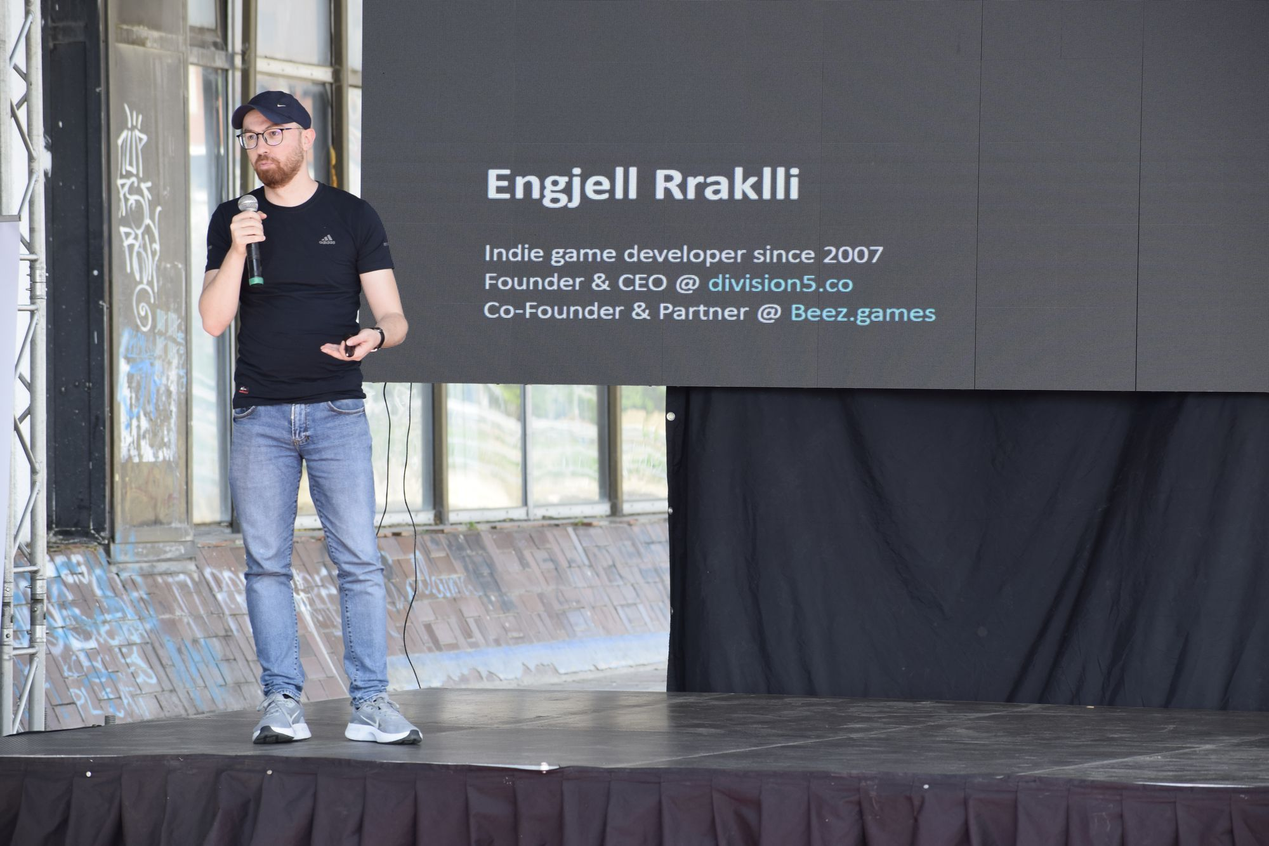
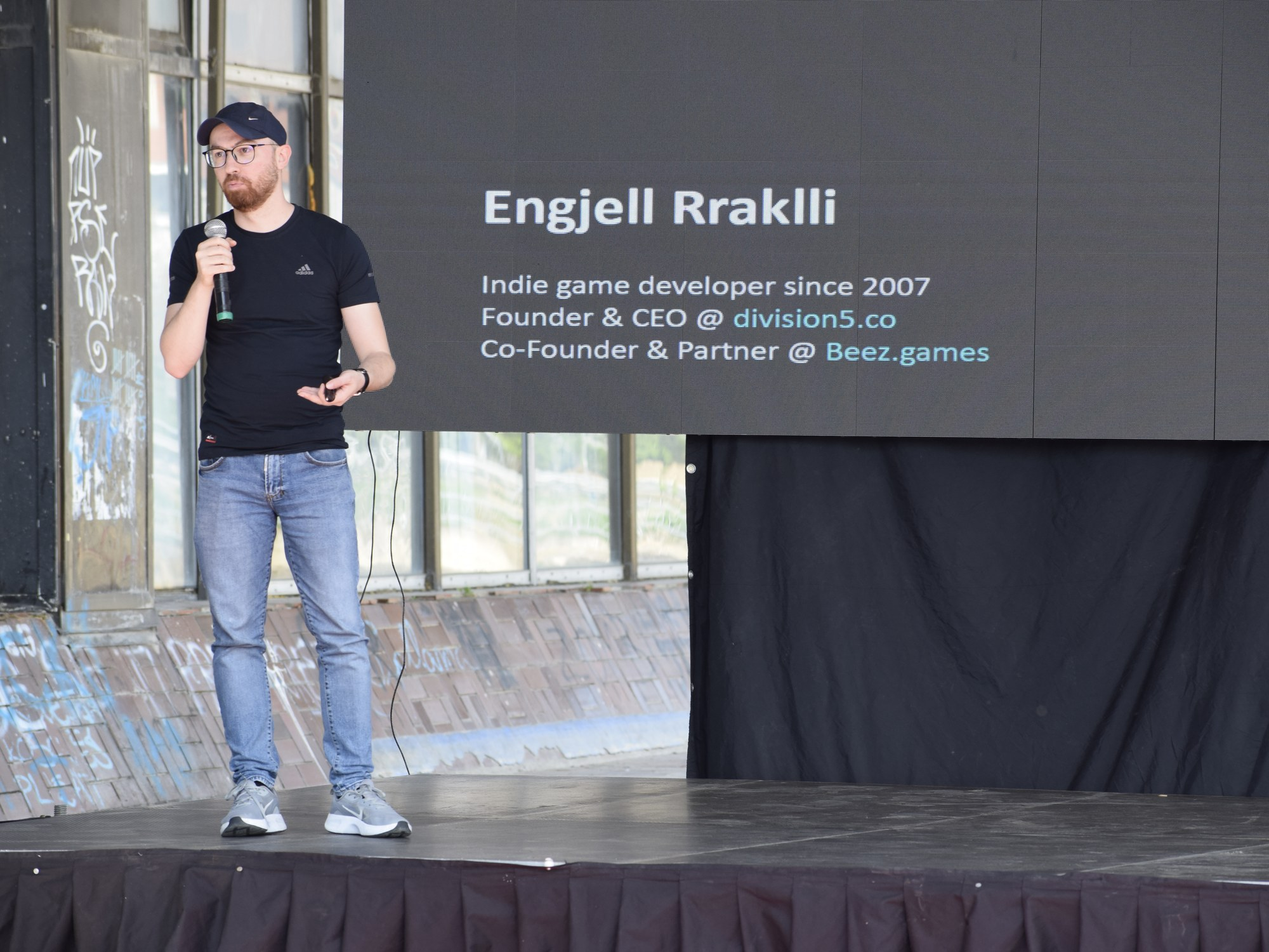
fix(redesign): sharp photos and article images that actually arrive
Photos looked soft for three reasons. Next served AVIF at quality 75,
about 26 KB for a 1080px photo. The landscape photos sat in 4:5 and 4:3
frames, so object-cover enlarged them past the width `sizes` promised
and the browser fetched half the pixels it needed. And the Albanian
Skills Expo set was shot on a phone. Now: WebP at quality 85, every
photo pre-cut to its frame from the camera originals, and the phone
and reduced awards photos retired.

Article body images were full-size uploads of 8 to 10 MB each. They now
go through the image optimizer at the column width, about 135 KB.

/invest and /sprint get a photo each, so neither is text all the way down.

diff --git a/app/journal/[slug]/page.tsx b/app/journal/[slug]/page.tsx
@@ -131,7 +131,7 @@ export default async function BlogPost({ params }: { params: Promise<{ slug: str
             <div className="mt-8 flex flex-wrap items-center justify-between gap-x-6 gap-y-4 border-t border-[var(--line)] pt-6">
               <div className="flex items-center gap-3.5">
                 <span className="relative block h-12 w-12 shrink-0 overflow-hidden rounded-full bg-[var(--deep)]">
-                  <Image src="/IMG_0466.JPG" alt="" fill sizes="48px" className="origin-[50%_33%] scale-[2.4] object-cover" style={{ objectPosition: "50% 24%" }} />
+                  <Image src="/IMG_0466.JPG" alt="" fill quality={85} sizes="48px" className="origin-[50%_33%] scale-[2.4] object-cover" style={{ objectPosition: "50% 24%" }} />
                 </span>
                 <div>
                   <p className="text-[15px] font-semibold text-[var(--ink)]">Engjell Rraklli</p>
@@ -159,6 +159,7 @@ export default async function BlogPost({ params }: { params: Promise<{ slug: str
                 src={blog.imageUrl}
                 alt={`${blog.title}, featured image`}
                 fill
+                quality={85}
                 priority
                 sizes="(min-width: 1024px) 64rem, 100vw"
                 className="object-cover"
@@ -213,6 +214,7 @@ export default async function BlogPost({ params }: { params: Promise<{ slug: str
                         src={relatedBlog.imageUrl}
                         alt=""
                         fill
+                        quality={85}
                         sizes="(min-width: 768px) 50vw, 100vw"
                         className="object-cover transition-transform duration-500 group-hover:scale-[1.03]"
                       />
@@ -257,9 +259,19 @@ function BlogContentWithSubscribe({ content }: { content: string }) {
     return html.replace(/&lt;/g, '<').replace(/&gt;/g, '>').replace(/&amp;/g, '&').replace(/&quot;/g, '"').replace(/&#39;/g, "'");
   };
 
-  // Add lazy loading and async decoding to blog content images for faster page load
+  // Body images are uploaded as full-size PNGs, often 8 to 10 MB each, so
+  // send the ones next/image is allowed to fetch through its optimizer at the
+  // width of the 44rem column. Anything else keeps its original src.
   const optimizeContentImages = (html: string) => {
-    return html.replace(/<img(\s)/gi, '<img loading="lazy" decoding="async"$1');
+    const optimizable = /^(\/api\/uploads\/|https:\/\/engjellrraklli\.com\/api\/uploads\/|https:\/\/app\.division5\.co\/api\/v1\/storage\/files\/)[^"']+\.(png|jpe?g|webp)$/i;
+    const at = (src: string, w: number) => `/_next/image?url=${encodeURIComponent(src)}&amp;w=${w}&amp;q=85`;
+    return html
+      .replace(/<img\b([^>]*?)\ssrc=(["'])([^"']+)\2/gi, (tag, before: string, q: string, src: string) => {
+        if (!optimizable.test(src)) return tag;
+        const srcset = [828, 1200, 1920].map((w) => `${at(src, w)} ${w}w`).join(', ');
+        return `<img${before} src=${q}${at(src, 1200)}${q} srcset="${srcset}" sizes="(min-width: 768px) 44rem, 100vw"`;
+      })
+      .replace(/<img(\s)/gi, '<img loading="lazy" decoding="async"$1');
   };
 
   let decodedContent = content;

diff --git a/app/work/page.tsx b/app/work/page.tsx
@@ -23,8 +23,7 @@ export const metadata: Metadata = createMetadata({
 const OFFERS = [
   {
     href: '/sprint',
-    image: '/photos/expo-table.jpg',
-    position: '55% 50%',
+    image: '/photos/studio-desk.jpg',
     for: 'For service business founders',
     title: 'The Constraint Sprint',
     body: 'Four remote sessions over two weeks with you and the people who actually run your business, to name the thing it is stuck on and decide what to do about it. You leave with a written analysis and a ninety day plan.',
@@ -34,7 +33,6 @@ const OFFERS = [
   {
     href: '/speaking',
     image: '/photos/stage-adc-wide.jpg',
-    position: '82% 50%',
     for: 'For organisers and podcast hosts',
     title: 'Speaking',
     body: 'Talks about what actually happened when we put AI agents into a real business: what they took over, what we refused to let them touch, and what it cost. Post-mortems, not predictions.',
@@ -43,8 +41,7 @@ const OFFERS = [
   },
   {
     href: '/invest',
-    image: '/photos/jury-ebdc.jpg',
-    position: '50% 40%',
+    image: '/photos/adc-listening.jpg',
     for: 'For founders in Albania and Kosovo',
     title: 'Angel investing',
     body: 'I back B2B productized services, services turned into software and high-ticket B2B products, built here and already selling in Europe or the US. Customers, distribution and automation come with the cheque.',
@@ -83,7 +80,7 @@ export default function WorkPage() {
         <section key={o.href} className={i % 2 === 0 ? 'sec-deep' : 'sec-light'} aria-labelledby={`offer-${i}`}>
           <div className={`wrap flex flex-wrap items-center gap-x-16 gap-y-10 py-[clamp(56px,6vw,96px)] ${i % 2 === 1 ? 'flex-row-reverse' : ''}`}>
             <div className="relative aspect-[4/3] w-full min-w-0 flex-[1_1_420px] overflow-hidden bg-[var(--deep)]">
-              <Image src={o.image} alt="" fill sizes="(min-width: 1024px) 45vw, 100vw" className="object-cover" style={{ objectPosition: o.position }} />
+              <Image src={o.image} alt="" fill quality={85} sizes="(min-width: 1024px) 45vw, 100vw" className="object-cover" />
             </div>
             <div className="min-w-0 flex-[1_1_440px]">
               <SectionLabel>{o.for}</SectionLabel>

diff --git a/components/site/Episodes.tsx b/components/site/Episodes.tsx
@@ -22,6 +22,7 @@ export function FeaturedEpisode({ ep, priority = false }: { ep: Episode; priorit
           src={ep.thumbnailUrl}
           alt={`${t.title}, episode thumbnail`}
           fill
+          quality={85}
           priority={priority}
           sizes="(min-width: 1024px) 60vw, 100vw"
           className="object-cover transition-transform duration-500 group-hover:scale-[1.02]"
@@ -55,7 +56,7 @@ export function EpisodeRow({ ep }: { ep: Episode }) {
       className="group flex items-start gap-4 border-t border-[var(--line)] py-5 first:border-t-0 first:pt-0"
     >
       <div className="relative aspect-video w-[144px] shrink-0 overflow-hidden border border-[var(--line)] bg-[var(--deep)]">
-        <Image src={ep.thumbnailUrl} alt="" fill sizes="144px" className="object-cover" />
+        <Image src={ep.thumbnailUrl} alt="" fill quality={85} sizes="144px" className="object-cover" />
       </div>
       <div className="min-w-0">
         <h4 className="font-montserrat text-[15px] font-semibold leading-snug tracking-normal !text-white transition-colors group-hover:!text-[var(--primary-mint)]">
@@ -79,6 +80,7 @@ export function EpisodeCard({ ep }: { ep: Episode }) {
           src={ep.thumbnailUrl}
           alt=""
           fill
+          quality={85}
           sizes="(min-width: 1024px) 33vw, (min-width: 640px) 50vw, 100vw"
           className="object-cover transition-transform duration-500 group-hover:scale-[1.03]"
         />

diff --git a/app/page.tsx b/app/page.tsx
@@ -90,8 +90,7 @@ export default async function Home() {
   const tiles: Tile[] = [
     {
       href: '/ventures',
-      image: '/photos/expo-mentoring.jpg',
-      position: '52% 50%',
+      image: '/photos/kosict-conversation.jpg',
       label: 'division5 · divisionAI',
       keepCase: true,
       title: 'Builds',
@@ -100,7 +99,6 @@ export default async function Home() {
     {
       href: '/podcast',
       image: '/photos/studio-ringlight.jpg',
-      position: '54% 40%',
       label: 'Scaling the Unscalable',
       title: 'Talks',
       body: 'Long conversations with founders about what really happens inside a company.',
@@ -108,7 +106,6 @@ export default async function Home() {
     {
       href: '/speaking',
       image: '/photos/stage-adc-crowd.jpg',
-      position: '88% 50%',
       label: 'Speaking',
       title: 'Speaks',
       body: 'Post-mortems, not predictions. What putting AI agents into a real business cost.',
@@ -150,6 +147,7 @@ export default async function Home() {
                     src="/IMG_0466.JPG"
                     alt="Engjell Rraklli in the Scaling the Unscalable studio in Tirana"
                     fill
+                    quality={85}
                     priority
                     sizes="(min-width: 1024px) 430px, 100vw"
                     className="object-cover"

diff --git a/app/sprint/page.tsx b/app/sprint/page.tsx
@@ -1,3 +1,4 @@
+import Image from 'next/image';
 import Link from 'next/link';
 import { Check, X } from 'lucide-react';
 import ContactForm from '@/components/ContactForm';
@@ -157,8 +158,18 @@ export default function SprintPage() {
       />
 
       <section className="sec-deep">
-        <div className="wrap py-[clamp(48px,5vw,72px)]">
-          <p className="max-w-[52em] text-[17px] leading-relaxed text-[var(--text)]">
+        <div className="wrap flex flex-wrap items-center gap-x-16 gap-y-10 py-[clamp(48px,5vw,72px)]">
+          <div className="relative aspect-[4/3] w-full min-w-0 max-w-[560px] flex-[1_1_360px] overflow-hidden bg-[var(--deep)]">
+            <Image
+              src="/photos/studio-desk.jpg"
+              alt="Engjell Rraklli at his desk in the division5 studio"
+              fill
+              quality={85}
+              sizes="(min-width: 1024px) 560px, 100vw"
+              className="object-cover"
+            />
+          </div>
+          <p className="min-w-0 max-w-[40em] flex-[1_1_440px] text-[17px] leading-relaxed text-[var(--text)]">
             The{' '}
             <Link href="/playbook" className="text-link">
               playbook

diff --git a/app/about/page.tsx b/app/about/page.tsx
@@ -99,7 +99,7 @@ export default function About() {
             did about it.
           </p>
         }
-        image={{ src: '/photos/jury-ebdc-portrait.jpg', alt: 'Engjell Rraklli with two organisers at the Albanian Skills awards in Tirana', position: '50% 35%' }}
+        image={{ src: '/photos/kosict-call.jpg', alt: 'Engjell Rraklli on a phone call outside the KosICT conference in Prishtina' }}
       />
 
       <section className="sec-light" aria-label="My story">
@@ -121,12 +121,12 @@ export default function About() {
       {/* A photograph at full width, between the reading and the rest. */}
       <div className="relative aspect-[16/9] w-full overflow-hidden bg-[var(--deep)] md:aspect-[21/8]">
         <Image
-          src="/photos/expo-panel.jpg"
-          alt="Engjell Rraklli on a panel at the Skills, Careers and Employment Festival in Tirana"
+          src="/photos/stage-adc-room.jpg"
+          alt="Engjell Rraklli speaking to a full room at ADC 2023"
           fill
+          quality={85}
           sizes="100vw"
           className="object-cover"
-          style={{ objectPosition: '50% 48%' }}
         />
       </div>
 

diff --git a/components/site/PhotoTiles.tsx b/components/site/PhotoTiles.tsx
@@ -5,7 +5,8 @@ import SectionLabel from '@/components/site/SectionLabel';
 export interface Tile {
   href: string;
   image: string;
-  /** object-position for the crop, so the subject survives the 4:5 frame. */
+  /** object-position. Photos in public/photos are already cut to 4:5, so this
+   *  only matters for one that is not. */
   position?: string;
   label: string;
   keepCase?: boolean;
@@ -28,6 +29,7 @@ export default function PhotoTiles({ tiles, label = 'What I do' }: { tiles: Tile
             src={t.image}
             alt=""
             fill
+            quality={85}
             sizes="(min-width: 1024px) 33vw, (min-width: 640px) 50vw, 100vw"
             className="object-cover"
             style={{ objectPosition: t.position ?? '50% 35%' }}

diff --git a/next.config.js b/next.config.js
@@ -30,7 +30,9 @@ const nextConfig = {
         pathname: '/api/uploads/**',
       },
     ],
-    formats: ['image/avif', 'image/webp'],
+    // WebP only. At Next's default quality AVIF came out at about 26 KB for a
+    // 1080px photo, which smeared detail and read as low resolution.
+    formats: ['image/webp'],
     deviceSizes: [640, 750, 828, 1080, 1200, 1920, 2048, 3840],
     imageSizes: [16, 32, 48, 64, 96, 128, 256, 384],
     minimumCacheTTL: 3600,

diff --git a/app/speaking/page.tsx b/app/speaking/page.tsx
@@ -82,7 +82,7 @@ export default function Speaking() {
             </a>
           </>
         }
-        image={{ src: '/photos/stage-kosict-slide.jpg', alt: 'Engjell Rraklli on stage beside his speaker slide', position: '40% 45%', landscape: true }}
+        image={{ src: '/photos/stage-kosict-slide.jpg', alt: 'Engjell Rraklli on stage beside his speaker slide', landscape: true }}
       />
 
       <section className="sec-light" aria-labelledby="talks">

diff --git a/app/journal/page.tsx b/app/journal/page.tsx
@@ -147,6 +147,7 @@ export default async function Journal({ searchParams }: { searchParams?: SearchP
                     src={startHere.imageUrl}
                     alt=""
                     fill
+                    quality={85}
                     priority
                     sizes="(min-width: 1024px) 45vw, 100vw"
                     className="object-cover transition-transform duration-500 group-hover:scale-[1.02]"

diff --git a/components/site/JournalList.tsx b/components/site/JournalList.tsx
@@ -62,6 +62,7 @@ export default function JournalList({
                     src={b.imageUrl}
                     alt=""
                     fill
+                    quality={85}
                     sizes="180px"
                     priority={priorityFirst && i === 0}
                     className="object-cover transition-transform duration-500 group-hover:scale-[1.04]"

diff --git a/components/site/PageHero.tsx b/components/site/PageHero.tsx
@@ -52,6 +52,7 @@ export default function PageHero({
                         src={image.src}
                         alt={image.alt}
                         fill
+                        quality={85}
                         priority={image.priority ?? true}
                         sizes="(min-width: 1024px) 560px, 100vw"
                         className="object-cover"
